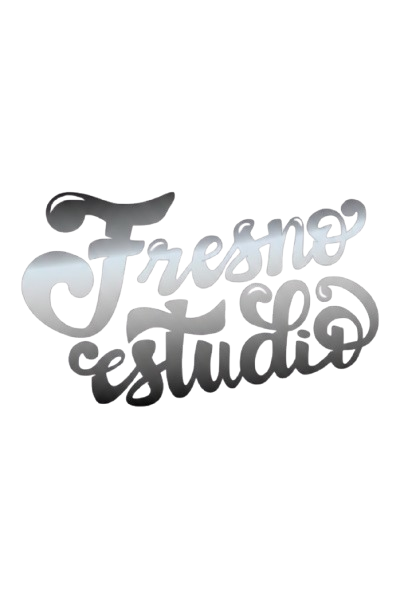
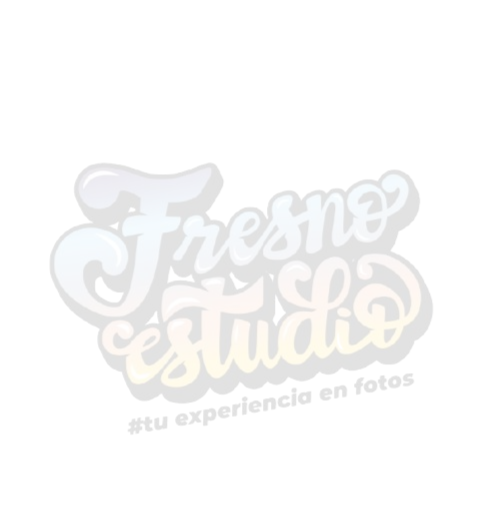
cambio en la marca de agua

Changed region(s): [[0.0294, 0.3089, 0.9412, 0.834]]

diff --git a/backend/controllers/photoController.js b/backend/controllers/photoController.js
@@ -147,15 +147,20 @@ const createPhoto = async (req, res) => {
           const imageHeight = baseMeta.height;
 
           // 🔥 ESCALADO CORRECTO (lado más corto)
-          const baseSize = Math.min(imageWidth, imageHeight);
-          const watermarkWidth = Math.floor(baseSize * 0.6);
+          // 🔥 Queremos que ocupe hasta 90% pero sin romper dimensiones
+const maxWatermarkWidth = Math.floor(imageWidth * 0.99);
+const maxWatermarkHeight = Math.floor(imageHeight * 0.99);
 
-          const watermarkBuffer = await sharp(watermarkPath)
-            .resize({ width: watermarkWidth })
-            .ensureAlpha()
-            .modulate({ opacity: 0.25 })
-            .png()
-            .toBuffer();
+const watermarkBuffer = await sharp(watermarkPath)
+  .resize({
+    width: maxWatermarkWidth,
+    height: maxWatermarkHeight,
+    fit: "inside", // 👈 NUNCA excede dimensiones
+  })
+  .ensureAlpha()
+  .modulate({ opacity: 0.45 })
+  .png()
+  .toBuffer();
 
           const watermarkMeta = await sharp(
             watermarkBuffer
